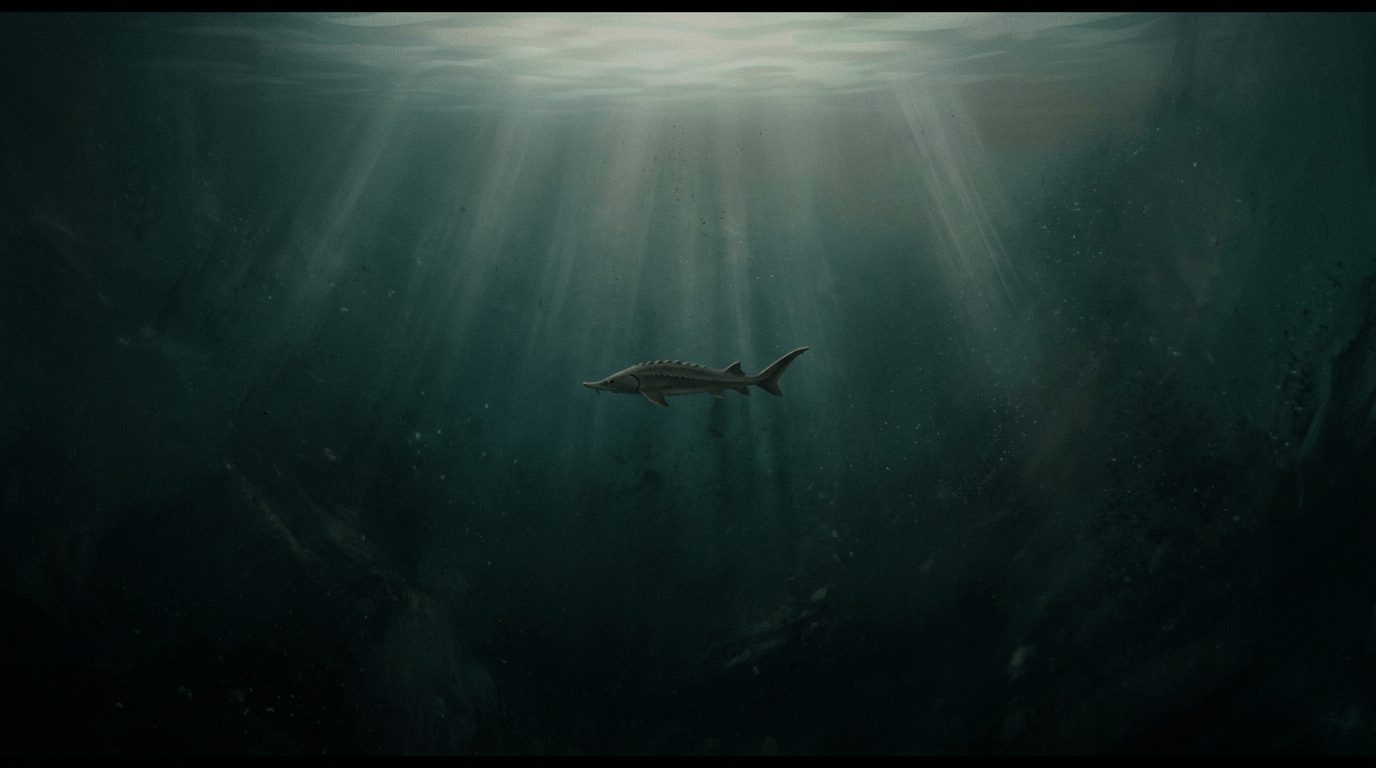
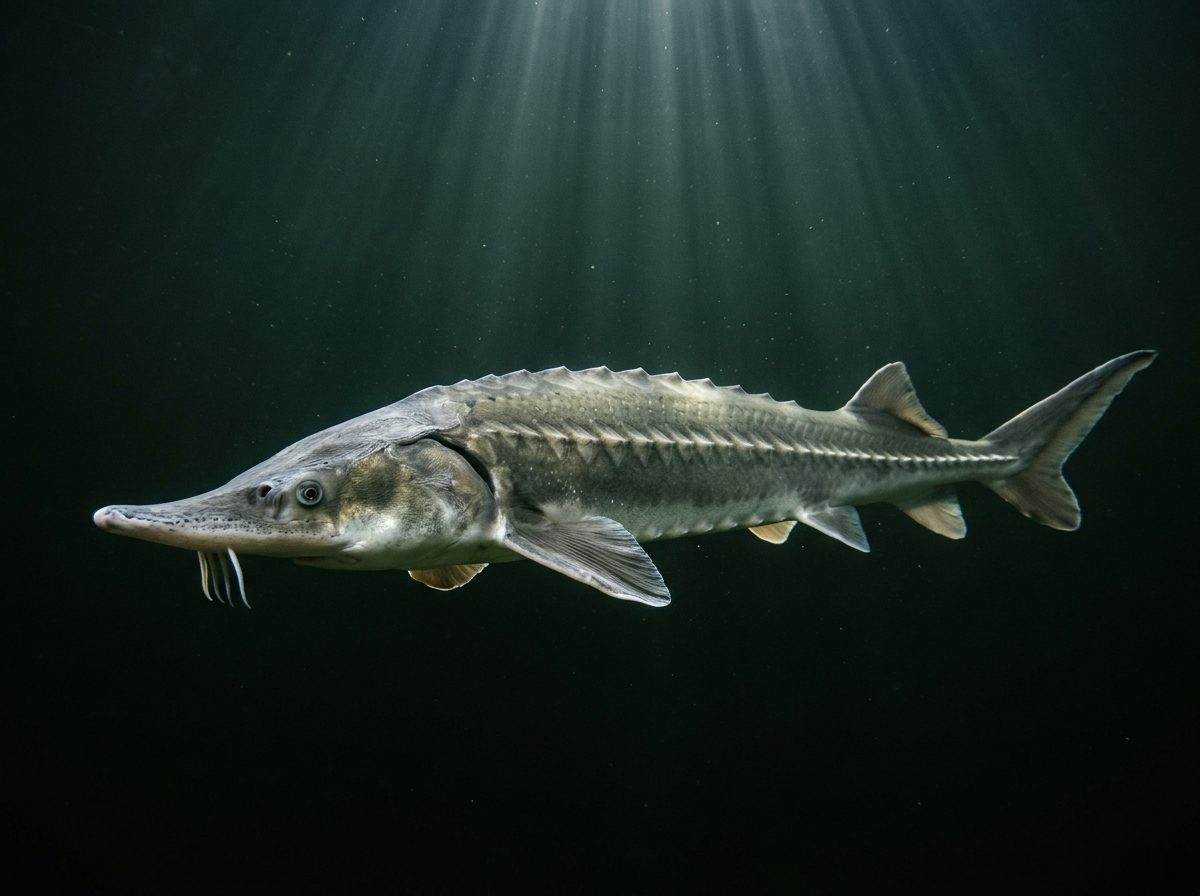
Deploy: new chapter 01 fish and the 2027 picture

diff --git a/studio-fa519005bf/index.html b/studio-fa519005bf/index.html
@@ -94,7 +94,7 @@
     </div>
     <div class="tocGroup"><h3><span>05</span><b data-t="ch5Name">2027 年の、ある一日</b></h3>
       <div class="toc">
-        <a href="#effect" class="ph day"><i></i><span data-t="tDay">これで、何が起きるか</span></a>
+        <a href="#effect"><img src="assets/idea_day2027.png" alt=""><span data-t="tDay">これで、何が起きるか</span></a>
       </div>
     </div>
   </div>
